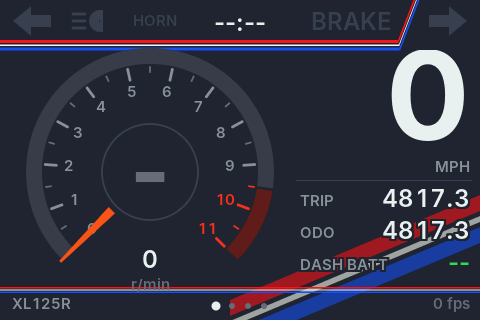
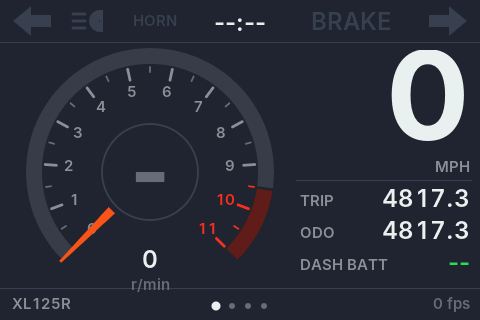
Dash v1: retro stripes off (plain background)
Claude-Session: https://claude.ai/code/session_01EhMcsDqwmw83FR1G3AXd3V

Changed region(s): [[0.0, 0.5938, 1.0, 1.0], [0.0, 0.0, 0.875, 0.1562]]

diff --git a/firmware/xl-dash-v1/config.h b/firmware/xl-dash-v1/config.h
@@ -19,7 +19,7 @@
 #define NEEDLE_EASE_S 0.10f      // needle catch-up time, seconds
 #define SPEED_EASE_S 0.18f
 #define GHOST_TRAIL 1            // faded needles behind the real one
-#define RETRO_STRIPES 1          // tricolour stripes in the background
+#define RETRO_STRIPES 0          // tricolour stripes in the background
 #define STRIPE_ALPHA 150         // 0-255, strength of the big diagonal stripes
 
 // ---- I2C bus (Waveshare fixed: SDA 8, SCL 7). The left controller hangs off it too.
